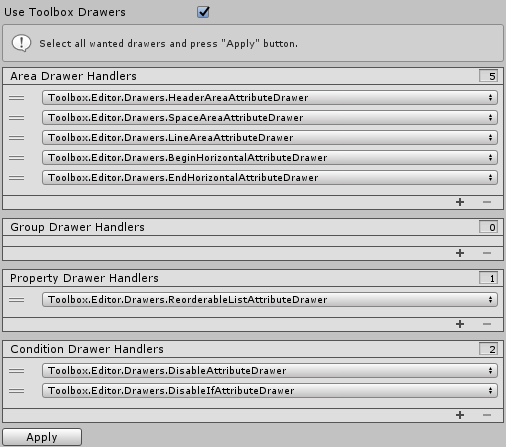
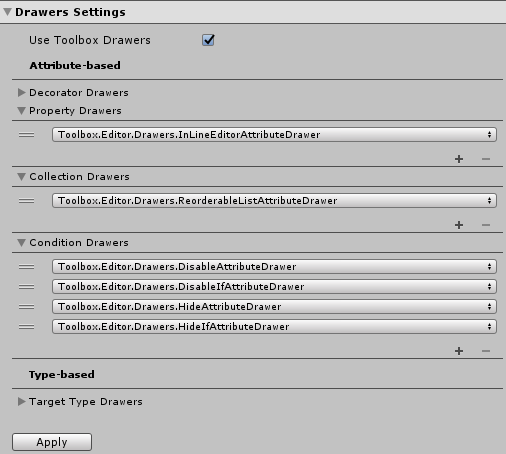
Fix drawing of built-int numeric types. Change a name convention from ToolboxAreaDrawer to ToolboxDecoratorDrawer

diff --git a/Assets/Editor Toolbox/Editor/ToolboxEditorSettingsEditor.cs b/Assets/Editor Toolbox/Editor/ToolboxEditorSettingsEditor.cs
@@ -9,9 +9,9 @@ namespace Toolbox.Editor
     [CanEditMultipleObjects]
     public class ToolboxEditorSettingsEditor : ToolboxEditor
     {
-        private bool hierarchySettingsEnabled;
-        private bool projectSettingsEnabled;
         private bool drawersSettingsEnabled;
+        private bool projectSettingsEnabled;
+        private bool hierarchySettingsEnabled;
 
         private SerializedProperty useToolboxDrawersProperty;
         private SerializedProperty useToolboxFoldersProperty;
@@ -19,19 +19,19 @@ namespace Toolbox.Editor
 
         private ReorderableList customFoldersList;
 
-        private ReorderableList areaDrawerHandlersList;
+        private ReorderableList decoratorDrawerHandlersList;
         private ReorderableList propertyDrawerHandlersList;
-        private ReorderableList conditionDrawerHandlersList;
         private ReorderableList collectionDrawerHandlersList;
+        private ReorderableList conditionDrawerHandlersList;
 
         private ReorderableList targetTypeDrawerHandlersList;
 
 
         private void OnEnable()
         {
-            hierarchySettingsEnabled = EditorPrefs.GetBool("ToolboxEditorSettings.hierarchySettingsEnabled", false);
-            projectSettingsEnabled = EditorPrefs.GetBool("ToolboxEditorSettings.projectSettingsEnabled", false);
             drawersSettingsEnabled = EditorPrefs.GetBool("ToolboxEditorSettings.drawersSettingsEnabled", false);
+            projectSettingsEnabled = EditorPrefs.GetBool("ToolboxEditorSettings.projectSettingsEnabled", false);
+            hierarchySettingsEnabled = EditorPrefs.GetBool("ToolboxEditorSettings.hierarchySettingsEnabled", false);
 
             useToolboxDrawersProperty = serializedObject.FindProperty("useToolboxDrawers");
             useToolboxFoldersProperty = serializedObject.FindProperty("useToolboxFolders");
@@ -40,8 +40,8 @@ namespace Toolbox.Editor
             customFoldersList = ToolboxEditorGui.CreateLinedList(serializedObject.FindProperty("customFolders"));
             customFoldersList.HasHeader = false;
 
-            areaDrawerHandlersList = ToolboxEditorGui.CreateLinedList(serializedObject.FindProperty("areaDrawerHandlers"));
-            areaDrawerHandlersList.HasHeader = false;
+            decoratorDrawerHandlersList = ToolboxEditorGui.CreateLinedList(serializedObject.FindProperty("decoratorDrawerHandlers"));
+            decoratorDrawerHandlersList.HasHeader = false;
 
             propertyDrawerHandlersList = ToolboxEditorGui.CreateLinedList(serializedObject.FindProperty("propertyDrawerHandlers"));
             propertyDrawerHandlersList.HasHeader = false;
@@ -58,9 +58,9 @@ namespace Toolbox.Editor
 
         private void OnDisable()
         {
-            EditorPrefs.SetBool("ToolboxEditorSettings.hierarchySettingsEnabled", hierarchySettingsEnabled);
-            EditorPrefs.SetBool("ToolboxEditorSettings.projectSettingsEnabled", projectSettingsEnabled);
             EditorPrefs.SetBool("ToolboxEditorSettings.drawersSettingsEnabled", drawersSettingsEnabled);
+            EditorPrefs.SetBool("ToolboxEditorSettings.projectSettingsEnabled", projectSettingsEnabled);
+            EditorPrefs.SetBool("ToolboxEditorSettings.hierarchySettingsEnabled", hierarchySettingsEnabled);
         }
 
 
@@ -141,9 +141,9 @@ namespace Toolbox.Editor
                 ToolboxEditorGui.DrawLayoutLine(lineTickiness);
 
                 EditorGUI.BeginDisabledGroup(!useToolboxDrawersProperty.boolValue);
-                if (DrawListFoldout(areaDrawerHandlersList, Style.drawerListFoldoutStyle, "Decorator Drawers[Area]"))
+                if (DrawListFoldout(decoratorDrawerHandlersList, Style.drawerListFoldoutStyle, "Decorator Drawers"))
                 {
-                    areaDrawerHandlersList.DoLayoutList();
+                    decoratorDrawerHandlersList.DoLayoutList();
                 }
 
                 if (DrawListFoldout(propertyDrawerHandlersList, Style.drawerListFoldoutStyle, "Property Drawers"))

diff --git a/Assets/Editor Toolbox/Editor/ToolboxEditorSettings.cs b/Assets/Editor Toolbox/Editor/ToolboxEditorSettings.cs
@@ -68,17 +68,17 @@ namespace Toolbox.Editor
         private List<FolderData> customFolders;
 
         [HideIf("useToolboxDrawers", true)]
-        [SerializeField, ReorderableList(ListStyle.Boxed), ClassExtends(typeof(ToolboxAreaDrawer<>))]
-        private List<SerializedTypeReference> areaDrawerHandlers;
+        [SerializeField, ReorderableList(ListStyle.Boxed), ClassExtends(typeof(ToolboxDecoratorDrawer<>))]
+        private List<SerializedTypeReference> decoratorDrawerHandlers;
         [HideIf("useToolboxDrawers", true)]
         [SerializeField, ReorderableList(ListStyle.Boxed), ClassExtends(typeof(ToolboxPropertyDrawer<>))]
         private List<SerializedTypeReference> propertyDrawerHandlers;
         [HideIf("useToolboxDrawers", true)]
-        [SerializeField, ReorderableList(ListStyle.Boxed), ClassExtends(typeof(ToolboxConditionDrawer<>))]
-        private List<SerializedTypeReference> conditionDrawerHandlers;
-        [HideIf("useToolboxDrawers", true)]
         [SerializeField, ReorderableList(ListStyle.Boxed), ClassExtends(typeof(ToolboxCollectionDrawer<>))]
         private List<SerializedTypeReference> collectionDrawerHandlers;
+        [HideIf("useToolboxDrawers", true)]
+        [SerializeField, ReorderableList(ListStyle.Boxed), ClassExtends(typeof(ToolboxConditionDrawer<>))]
+        private List<SerializedTypeReference> conditionDrawerHandlers;
 
         [HideIf("useToolboxDrawers", true)]
         [SerializeField, ReorderableList(ListStyle.Boxed), ClassExtends(typeof(ToolboxTargetTypeDrawer))]
@@ -104,8 +104,8 @@ namespace Toolbox.Editor
 
         public void AddDecoratorDrawerHandler(SerializedTypeReference drawerReference)
         {
-            if (areaDrawerHandlers == null) areaDrawerHandlers = new List<SerializedTypeReference>();
-            areaDrawerHandlers.Add(drawerReference);
+            if (decoratorDrawerHandlers == null) decoratorDrawerHandlers = new List<SerializedTypeReference>();
+            decoratorDrawerHandlers.Add(drawerReference);
         }
 
         public void AddPropertyDrawerHandler(SerializedTypeReference drawerReference)
@@ -134,7 +134,7 @@ namespace Toolbox.Editor
 
         public void RemoveDecoratorDrawerHandler(SerializedTypeReference drawerReference)
         {
-            areaDrawerHandlers?.Remove(drawerReference);
+            decoratorDrawerHandlers?.Remove(drawerReference);
         }
 
         public void RemovePropertyDrawerHandler(SerializedTypeReference drawerReference)
@@ -159,7 +159,7 @@ namespace Toolbox.Editor
 
         public Type GetDecoratorDrawerTypeAt(int index)
         {
-            return areaDrawerHandlers[index];
+            return decoratorDrawerHandlers[index];
         }
 
         public Type GetPropertyDrawerTypeAt(int index)
@@ -205,7 +205,7 @@ namespace Toolbox.Editor
         public int CustomFoldersCount => customFolders != null ? customFolders.Count : 0;
 
 
-        public int DecoratorDrawersCount => areaDrawerHandlers != null ? areaDrawerHandlers.Count : 0;
+        public int DecoratorDrawersCount => decoratorDrawerHandlers != null ? decoratorDrawerHandlers.Count : 0;
 
         public int PropertyDrawersCount => propertyDrawerHandlers != null ? propertyDrawerHandlers.Count : 0;
 

diff --git a/Assets/Editor Toolbox/Editor/ToolboxPropertyHandler.cs b/Assets/Editor Toolbox/Editor/ToolboxPropertyHandler.cs
@@ -17,9 +17,9 @@ namespace Toolbox.Editor
         private readonly SerializedProperty property;
 
         /// <summary>
-        /// All associated <see cref="ToolboxAreaAttribute"/>s.
+        /// All associated <see cref="ToolboxDecoratorAttribute"/>s.
         /// </summary>
-        private readonly ToolboxAreaAttribute[] areaAttributes;
+        private readonly ToolboxDecoratorAttribute[] decoratorAttributes;
 
         /// <summary>
         /// First cached <see cref="ToolboxPropertyAttribute"/>.
@@ -110,9 +110,9 @@ namespace Toolbox.Editor
             conditionAttribute = propertyFieldInfo.GetCustomAttribute<ToolboxConditionAttribute>();
 
             //get all available area attributes
-            areaAttributes = propertyFieldInfo.GetCustomAttributes<ToolboxAreaAttribute>().ToArray();
+            decoratorAttributes = propertyFieldInfo.GetCustomAttributes<ToolboxDecoratorAttribute>().ToArray();
             //keep area attributes in proper order
-            Array.Sort(areaAttributes, (a1, a2) => a1.Order.CompareTo(a2.Order));
+            Array.Sort(decoratorAttributes, (a1, a2) => a1.Order.CompareTo(a2.Order));
         }
 
 
@@ -122,11 +122,11 @@ namespace Toolbox.Editor
         public void OnGuiLayout()
         {
             //begin all needed area drawers in proper order
-            if (areaAttributes != null)
+            if (decoratorAttributes != null)
             {
-                for (var i = 0; i < areaAttributes.Length; i++)
+                for (var i = 0; i < decoratorAttributes.Length; i++)
                 {
-                    ToolboxDrawerUtility.GetDecoratorDrawer(areaAttributes[i])?.OnGuiBegin(areaAttributes[i]);
+                    ToolboxDrawerUtility.GetDecoratorDrawer(decoratorAttributes[i])?.OnGuiBegin(decoratorAttributes[i]);
                 }
             }
 
@@ -177,11 +177,11 @@ namespace Toolbox.Editor
 
             Finish:
             //end all needed area drawers in proper order
-            if (areaAttributes != null)
+            if (decoratorAttributes != null)
             {
-                for (var i = areaAttributes.Length - 1; i >= 0; i--)
+                for (var i = decoratorAttributes.Length - 1; i >= 0; i--)
                 {
-                    ToolboxDrawerUtility.GetDecoratorDrawer(areaAttributes[i])?.OnGuiEnd(areaAttributes[i]);
+                    ToolboxDrawerUtility.GetDecoratorDrawer(decoratorAttributes[i])?.OnGuiEnd(decoratorAttributes[i]);
                 }
             }
         }

diff --git a/Assets/Editor Toolbox/Editor/Utilities/ToolboxDrawerUtility.cs b/Assets/Editor Toolbox/Editor/Utilities/ToolboxDrawerUtility.cs
@@ -22,7 +22,7 @@ namespace Toolbox.Editor
 
         private readonly static Dictionary<Type, ToolboxTargetTypeDrawer> targetTypeDrawers = new Dictionary<Type, ToolboxTargetTypeDrawer>();
 
-        private readonly static Dictionary<Type, ToolboxAreaDrawerBase>      decoratorDrawers  = new Dictionary<Type, ToolboxAreaDrawerBase>();
+        private readonly static Dictionary<Type, ToolboxDecoratorDrawerBase> decoratorDrawers  = new Dictionary<Type, ToolboxDecoratorDrawerBase>();
         private readonly static Dictionary<Type, ToolboxPropertyDrawerBase>  propertyDrawers   = new Dictionary<Type, ToolboxPropertyDrawerBase>();
         private readonly static Dictionary<Type, ToolboxPropertyDrawerBase>  collectionDrawers = new Dictionary<Type, ToolboxPropertyDrawerBase>();
         private readonly static Dictionary<Type, ToolboxConditionDrawerBase> conditionDrawers  = new Dictionary<Type, ToolboxConditionDrawerBase>();
@@ -76,7 +76,7 @@ namespace Toolbox.Editor
             for (var i = 0; i < settings.DecoratorDrawersCount; i++)
             {
                 var drawerType = settings.GetDecoratorDrawerTypeAt(i);
-                var targetType = GetAttributeTargetType(settings.GetDecoratorDrawerTypeAt(i), typeof(ToolboxAreaDrawer<>));
+                var targetType = GetAttributeTargetType(settings.GetDecoratorDrawerTypeAt(i), typeof(ToolboxDecoratorDrawer<>));
                 AddAttributeDrawer(drawerType, targetType, decoratorDrawers);
             }
 
@@ -152,9 +152,9 @@ namespace Toolbox.Editor
             return drawer;
         }
 
-        internal static ToolboxAreaDrawerBase    GetDecoratorDrawer<T>(T attribute) where T : ToolboxAreaAttribute
+        internal static ToolboxDecoratorDrawerBase GetDecoratorDrawer<T>(T attribute) where T : ToolboxDecoratorAttribute
         {
-            if (!decoratorDrawers.TryGetValue(attribute.GetType(), out ToolboxAreaDrawerBase drawer))
+            if (!decoratorDrawers.TryGetValue(attribute.GetType(), out ToolboxDecoratorDrawerBase drawer))
             {
                 throw new AttributeNotSupportedException(attribute);
             }

diff --git a/Assets/Editor Toolbox/Editor/Utilities/PropertyUtility.cs b/Assets/Editor Toolbox/Editor/Utilities/PropertyUtility.cs
@@ -27,6 +27,27 @@ namespace Toolbox.Editor
         private static MethodInfo getFieldInfoForPropertyMethod;
 
 
+        private static bool IsBuiltInNumericProperty(SerializedProperty property)
+        {
+            switch (property.propertyType)
+            {
+                case SerializedPropertyType.Bounds:
+                case SerializedPropertyType.BoundsInt:
+                case SerializedPropertyType.Rect:
+                case SerializedPropertyType.RectInt:
+                case SerializedPropertyType.Quaternion:
+                case SerializedPropertyType.Vector2:
+                case SerializedPropertyType.Vector2Int:
+                case SerializedPropertyType.Vector3:
+                case SerializedPropertyType.Vector3Int:
+                case SerializedPropertyType.Vector4:
+                    return true;
+            }
+
+            return false;
+        }
+
+
         public static T GetAttribute<T>(this SerializedProperty property) where T : Attribute
         {
             return ReflectionUtility.GetField(GetTargetObject(property), property.name).GetCustomAttribute<T>(true);
@@ -110,7 +131,11 @@ namespace Toolbox.Editor
 
         internal static bool HasCustomDrawer(this SerializedProperty property, Type drawerType)
         {
-            //NOTE: property reference will be helpuf in future releases
+            if (IsBuiltInNumericProperty(property))
+            {
+                return true;
+            }
+
             var parameters = new object[] { drawerType };
             var result = getDrawerTypeForTypeMethod.Invoke(null, parameters) as Type;
             return result != null && typeof(PropertyDrawer).IsAssignableFrom(result);

diff --git a/Assets/Editor Toolbox/Scripts/Attributes/ToolboxAttributes/DecoratorAttributes/BeginHorizontalAttribute.cs b/Assets/Editor Toolbox/Scripts/Attributes/ToolboxAttributes/DecoratorAttributes/BeginHorizontalAttribute.cs
@@ -6,7 +6,7 @@ namespace UnityEngine
     /// Begins horizontal group in inspector. Use <seealso cref="EndHorizontalAttribute"/> on serialized property to end this group.
     /// </summary>
     [AttributeUsage(AttributeTargets.Field, AllowMultiple = false, Inherited = false)]
-    public class BeginHorizontalAttribute : ToolboxAreaAttribute
+    public class BeginHorizontalAttribute : ToolboxDecoratorAttribute
     {
         public BeginHorizontalAttribute(float labelWidth = 35.0f)
         {

diff --git a/Assets/Editor Toolbox/Scripts/Attributes/ToolboxAttributes/DecoratorAttributes/BeginIndentAttribute.cs b/Assets/Editor Toolbox/Scripts/Attributes/ToolboxAttributes/DecoratorAttributes/BeginIndentAttribute.cs
@@ -6,7 +6,7 @@ namespace UnityEngine
     /// Begins indentation group in inspector. Use <seealso cref="EndIndentAttribute"/> on serialized property to end this group.
     /// </summary>
     [AttributeUsage(AttributeTargets.Field, AllowMultiple = false, Inherited = true)]
-    public class BeginIndentAttribute : ToolboxAreaAttribute
+    public class BeginIndentAttribute : ToolboxDecoratorAttribute
     {
         public BeginIndentAttribute(int indentToAdd = 1)
         {

diff --git a/Assets/Editor Toolbox/Scripts/Attributes/ToolboxAttributes/DecoratorAttributes/SpaceAreaAttribute.cs b/Assets/Editor Toolbox/Scripts/Attributes/ToolboxAttributes/DecoratorAttributes/SpaceAreaAttribute.cs
@@ -2,8 +2,8 @@
 
 namespace UnityEngine
 {
-    [AttributeUsage(AttributeTargets.Field, AllowMultiple = false, Inherited = true)]
-    public class SpaceAreaAttribute : ToolboxAreaAttribute
+    [AttributeUsage(AttributeTargets.Field, AllowMultiple = true, Inherited = true)]
+    public class SpaceAreaAttribute : ToolboxDecoratorAttribute
     {
         public SpaceAreaAttribute(float spaceBefore = 5.0f, float spaceAfter = 0.0f)
         {

diff --git a/Assets/Editor Toolbox/Scripts/Attributes/ToolboxAttributes/DecoratorAttributes/LineAreaAttribute.cs b/Assets/Editor Toolbox/Scripts/Attributes/ToolboxAttributes/DecoratorAttributes/LineAreaAttribute.cs
@@ -2,8 +2,8 @@
 
 namespace UnityEngine
 {
-    [AttributeUsage(AttributeTargets.Field, AllowMultiple = false, Inherited = true)]
-    public class LineAreaAttribute : ToolboxAreaAttribute
+    [AttributeUsage(AttributeTargets.Field, AllowMultiple = true, Inherited = true)]
+    public class LineAreaAttribute : ToolboxDecoratorAttribute
     {
         public LineAreaAttribute(float thickness = 0.75f, float padding = 6.0f)
         {

diff --git a/Assets/Editor Toolbox/Editor/Drawers/ToolboxDrawers/DecoratorDrawers/BeginHorizontalAttributeDrawer.cs b/Assets/Editor Toolbox/Editor/Drawers/ToolboxDrawers/DecoratorDrawers/BeginHorizontalAttributeDrawer.cs
@@ -3,7 +3,7 @@ using UnityEditor;
 
 namespace Toolbox.Editor.Drawers
 {
-    public class BeginHorizontalAttributeDrawer : ToolboxAreaDrawer<BeginHorizontalAttribute>
+    public class BeginHorizontalAttributeDrawer : ToolboxDecoratorDrawer<BeginHorizontalAttribute>
     {
         public override void OnGuiBegin(BeginHorizontalAttribute attribute)
         {

diff --git a/Assets/Editor Toolbox/Scripts/Attributes/ToolboxAttributes/DecoratorAttributes/HeaderAreaAttribute.cs b/Assets/Editor Toolbox/Scripts/Attributes/ToolboxAttributes/DecoratorAttributes/HeaderAreaAttribute.cs
@@ -3,7 +3,7 @@
 namespace UnityEngine
 {
     [AttributeUsage(AttributeTargets.Field, AllowMultiple = true, Inherited = false)]
-    public class HeaderAreaAttribute : ToolboxAreaAttribute
+    public class HeaderAreaAttribute : ToolboxDecoratorAttribute
     {
         public HeaderAreaAttribute(string label, HeaderStyle style = HeaderStyle.Unity)
         {

diff --git a/Assets/Editor Toolbox/Editor/Drawers/ToolboxDrawers/DecoratorDrawers/EndHorizontalAttributeDrawer.cs b/Assets/Editor Toolbox/Editor/Drawers/ToolboxDrawers/DecoratorDrawers/EndHorizontalAttributeDrawer.cs
@@ -3,7 +3,7 @@ using UnityEditor;
 
 namespace Toolbox.Editor.Drawers
 {
-    public class EndHorizontalAttributeDrawer : ToolboxAreaDrawer<EndHorizontalAttribute>
+    public class EndHorizontalAttributeDrawer : ToolboxDecoratorDrawer<EndHorizontalAttribute>
     {
         public override void OnGuiEnd(EndHorizontalAttribute attribute)
         {
